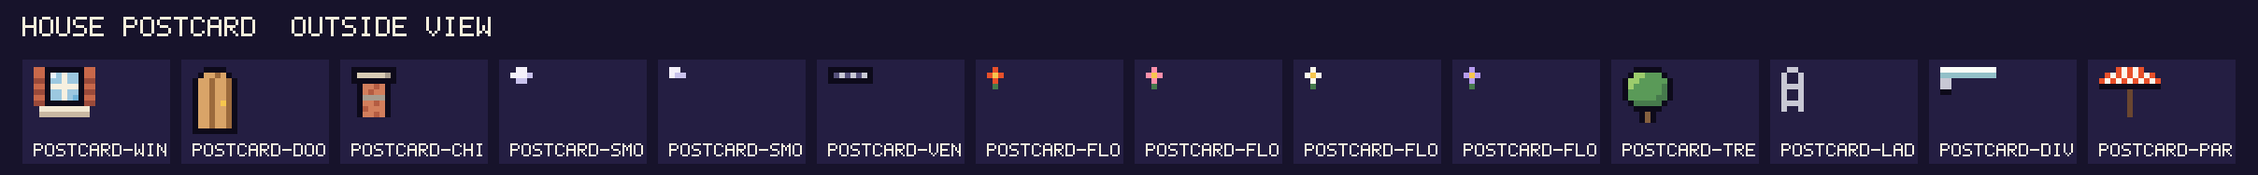
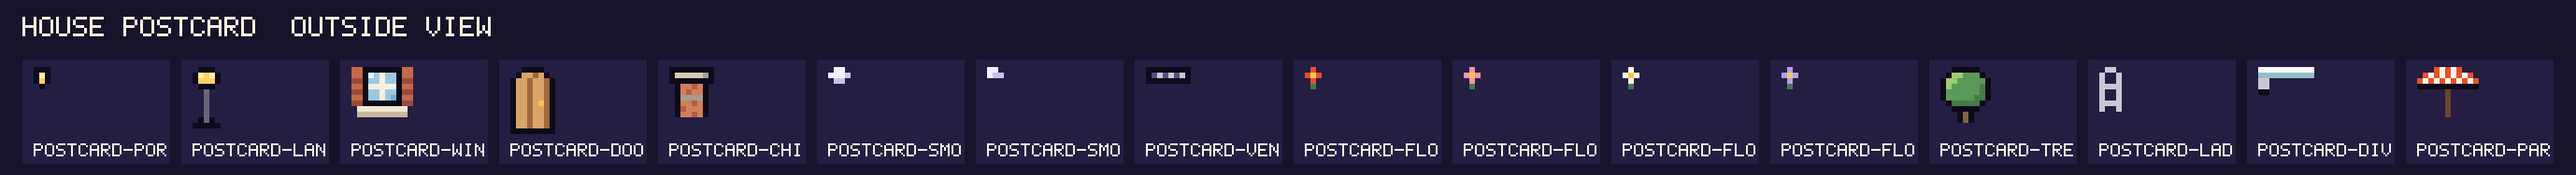
Art library: the postcard's lit lamp and lantern post
Claude-Session: https://claude.ai/code/session_01EFPnY7ahFEnrNM2ViZtrVZ

diff --git a/docs/art/README.md b/docs/art/README.md
@@ -13,7 +13,7 @@ Status: **liked** means Misa approved the look; **draft** means he has not said 
 | [House: garden and pool pieces](#house-garden) | draft | 13 | 2026-11-09: player housing, art batch E4: twelve garden and pool pieces that sit on grass and by water and read from a distance. |
 | [House: the wild pieces](#house-wild) | draft | 13 | 2026-11-09: player housing, art batch E4: twelve one-off pieces that belong to no set, each with character. |
 | [House: stamps, displays, materials and glyphs](#house-marks) | draft | 33 | 2026-11-09: housing art batch E5 (docs/design/housing.md, section 5): 24 stamps, the hall displays, 16 luxury materials, the House glyphs. |
-| [House postcard (outside view)](#house-postcard) | draft | 14 | 2026-11-10: a house that visibly grows into a mansion with wings, a pool and gardens, seen whole on a phone. |
+| [House postcard (outside view)](#house-postcard) | draft | 16 | 2026-11-10: a house that visibly grows into a mansion with wings, a pool and gardens, seen whole on a phone. |
 | [House: room skins](#house-rooms) | draft | 16 | 2026-11-10: player housing art pass 2, a default wallpaper and floor for every room kind (art director review: every room looked the same). |
 | [House set: Emberhold](#house-emberhold) | draft | 14 | 2026-11-09: player housing, furniture set art (batch E2). |
 | [House set: Moonlit](#house-moonlit) | draft | 14 | 2026-11-09: player housing, furniture set art (batch E2). |
@@ -234,11 +234,13 @@ Status: **liked** means Misa approved the look; **draft** means he has not said 
 - **Status:** draft
 - **Requested:** 2026-11-10: a house that visibly grows into a mansion with wings, a pool and gardens, seen whole on a phone.
 - **Source:** `apps/activity/src/sprites/concepts/house-postcard.ts` (draw it with `pnpm art house-postcard`)
-- **Sheet of:** `d34e7e4a40c2`
+- **Sheet of:** `df7972ba1d67`
 - Pack: `src/sprites/data/house/postcard.ts` (`POSTCARD_ART`). The picture is composed by `src/housing/house-postcard.ts` at 28 x 16 px a room cell; see it in the workbench page HousePostcard.
 
 | Code | Kind | Role | Status | Idea |
 | --- | --- | --- | --- | --- |
+| `postcard-porch-lamp` | free |  | draft | The porch lamp beside the front door, lit: drawn at twilight and night only. |
+| `postcard-lantern-post` | free |  | draft | A lantern post on the garden lawn, lit: drawn at twilight and night only. |
 | `postcard-window` | free |  | draft | A window with shutters and a sill: the shutters take the roof skin, the sill the wall skin (shown in thatch and plaster). |
 | `postcard-door` | free |  | draft | The front door on the Hearth, arched, planks and a brass knob. |
 | `postcard-chimney` | free |  | draft | The brick chimney with a stone cap; the composer sinks its foot into the roof. |
